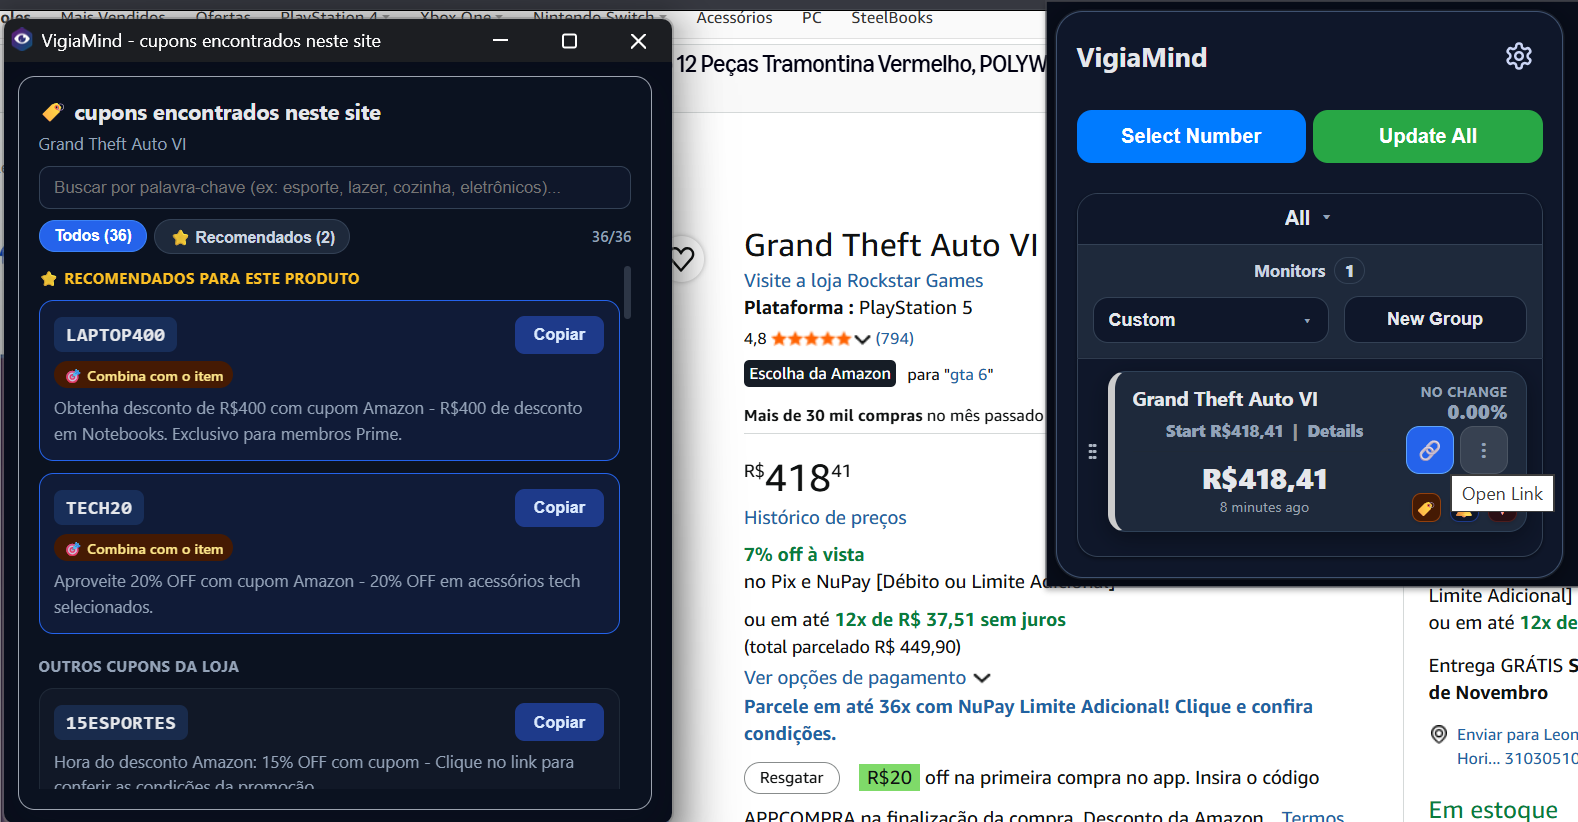
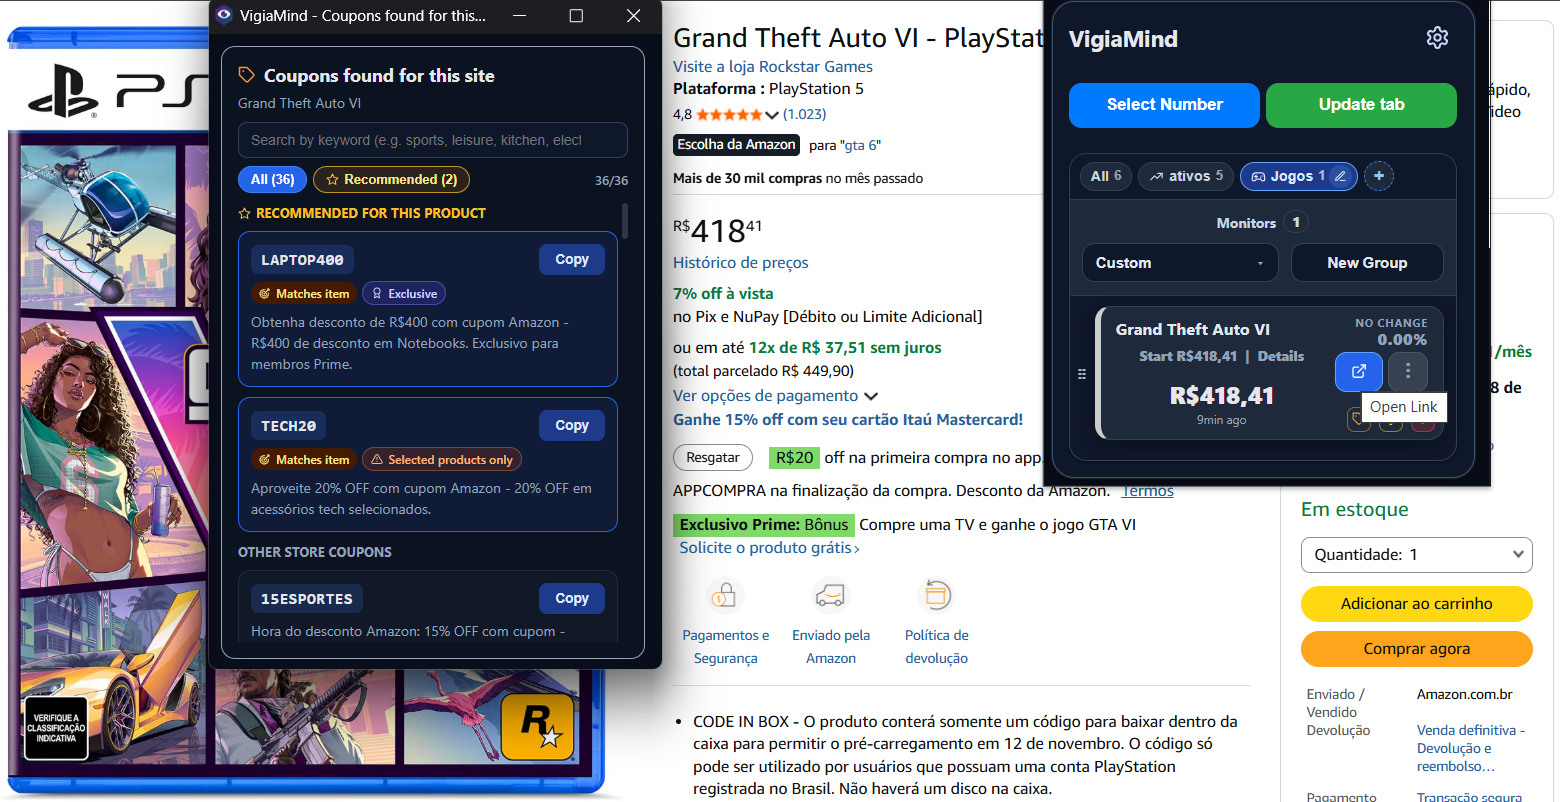
update images and include more info

diff --git a/privacidade.html b/privacidade.html
@@ -190,11 +190,10 @@
         <span>VigiaMind</span>
       </a>
       <div class="controls">
-        <a class="back-btn" href="index.html">← Início / Home</a>
+        <a class="back-btn" href="index.html">← Voltar para a extensão</a>
         <div class="lang-switch" role="group" aria-label="Idioma / Language">
-          <button type="button" class="lang-btn is-active" data-filter="all">🇧🇷 + 🇺🇸 Ambos</button>
-          <button type="button" class="lang-btn" data-filter="pt">🇧🇷 Português</button>
-          <button type="button" class="lang-btn" data-filter="en">🇺🇸 English</button>
+          <button type="button" class="lang-btn is-active" data-lang="pt">🇧🇷 Português</button>
+          <button type="button" class="lang-btn" data-lang="en">🇺🇸 English</button>
         </div>
       </div>
     </header>
@@ -212,7 +211,7 @@
 
       <h3>1. Dados armazenados localmente no seu navegador</h3>
       <p>
-        Todos os monitores que você cria (nomes, URLs das páginas monitoradas, seletores CSS, histórico de valores, metas, grupos, subgrupos e preferências de idioma e tema) são armazenados <strong>exclusivamente no armazenamento local do seu navegador</strong> (<code>chrome.storage.local</code>).
+        Todos os monitores que você cria (nomes, URLs das páginas monitoradas, seletores CSS, histórico de valores, metas, grupos, subgrupos, abas personalizadas e preferências de idioma e tema) são armazenados <strong>exclusivamente no armazenamento local do seu navegador</strong> (<code>chrome.storage.local</code>).
       </p>
       <ul>
         <li>O VigiaMind <strong>não exige</strong> criação de conta, e-mail ou senha.</li>
@@ -253,7 +252,7 @@
 
       <h3>1. Data stored locally in your browser</h3>
       <p>
-        All monitors you create (item names, monitored page URLs, CSS selectors, value history, targets, groups, subgroups, and UI preferences) are stored <strong>exclusively in your browser's local storage</strong> (<code>chrome.storage.local</code>).
+        All monitors you create (item names, monitored page URLs, CSS selectors, value history, targets, groups, subgroups, custom tabs, and UI preferences) are stored <strong>exclusively in your browser's local storage</strong> (<code>chrome.storage.local</code>).
       </p>
       <ul>
         <li>VigiaMind <strong>does not</strong> require an account, email address, or login.</li>
@@ -283,9 +282,9 @@
 
     <footer>
       <div style="margin-bottom: 12px;">
-        <a class="back-btn js-home-link" href="index.html">← Início / Home</a>
+        <a class="back-btn js-home-link" href="index.html">← Voltar para a extensão</a>
       </div>
-      <div>VigiaMind © 2026 — Privacy & Terms</div>
+      <div id="footer-copy">VigiaMind © 2026 — Política de Privacidade & Termos</div>
     </footer>
   </div>
 
@@ -294,44 +293,47 @@
       document.querySelectorAll('.back-btn').forEach((btn) => { btn.style.display = 'none'; });
     }
     const cards = Array.from(document.querySelectorAll('[data-doc-lang]'));
-    const buttons = Array.from(document.querySelectorAll('[data-filter]'));
+    const buttons = Array.from(document.querySelectorAll('[data-lang]'));
     const homeLinks = Array.from(document.querySelectorAll('.js-home-link, .back-btn, .brand'));
     const backButtons = Array.from(document.querySelectorAll('.back-btn'));
+    const footerCopy = document.getElementById('footer-copy');
 
-    function applyFilter(filter) {
+    function applyLang(lang) {
+      const safeLang = lang === 'en' ? 'en' : 'pt';
+      document.documentElement.lang = safeLang === 'en' ? 'en' : 'pt-BR';
+      document.title = safeLang === 'en'
+        ? 'VigiaMind — Privacy Policy & Terms of Use'
+        : 'VigiaMind — Política de Privacidade & Termos de Uso';
+
       cards.forEach((card) => {
-        const lang = card.getAttribute('data-doc-lang');
-        card.style.display = (filter === 'all' || filter === lang) ? '' : 'none';
+        card.style.display = card.getAttribute('data-doc-lang') === safeLang ? '' : 'none';
       });
       buttons.forEach((btn) => {
-        btn.classList.toggle('is-active', btn.getAttribute('data-filter') === filter);
+        btn.classList.toggle('is-active', btn.getAttribute('data-lang') === safeLang);
       });
-      const homeHref = filter === 'en'
-        ? 'index.html?lang=en'
-        : filter === 'pt'
-          ? 'index.html?lang=pt'
-          : 'index.html';
+
+      const homeHref = safeLang === 'en' ? 'index.html?lang=en' : 'index.html?lang=pt';
       homeLinks.forEach((link) => {
         link.href = homeHref;
       });
-      const backLabel = filter === 'en'
-        ? '← Back to VigiaMind'
-        : filter === 'pt'
-          ? '← Voltar para a extensão'
-          : '← Início / Home';
+      const backLabel = safeLang === 'en' ? '← Back to VigiaMind' : '← Voltar para a extensão';
       backButtons.forEach((btn) => {
         btn.textContent = backLabel;
       });
+      if (footerCopy) {
+        footerCopy.textContent = safeLang === 'en'
+          ? 'VigiaMind © 2026 — Privacy & Terms'
+          : 'VigiaMind © 2026 — Política de Privacidade & Termos';
+      }
     }
 
     buttons.forEach((btn) => {
-      btn.addEventListener('click', () => applyFilter(btn.getAttribute('data-filter')));
+      btn.addEventListener('click', () => applyLang(btn.getAttribute('data-lang')));
     });
 
     const urlLang = new URLSearchParams(window.location.search).get('lang');
-    if (urlLang === 'pt' || urlLang === 'en') {
-      applyFilter(urlLang);
-    }
+    const browserLang = (navigator.language || '').toLowerCase();
+    applyLang(urlLang === 'en' || (!urlLang && browserLang.startsWith('en')) ? 'en' : 'pt');
   </script>
 </body>
 </html>

diff --git a/index.html b/index.html
@@ -498,12 +498,32 @@
         </article>
         <article class="shot-card">
           <div class="shot-media">
+            <img src="image/groups_subgroups_pt.png" data-src-pt="image/groups_subgroups_pt.png" data-src-en="image/groups_subgroups_en.png" alt="Grupos, subgrupos e abas personalizadas" loading="lazy" />
+          </div>
+          <div class="shot-caption">
+            <span class="shot-step" data-i18n="s4Step">Passo 4</span>
+            <h3 data-i18n="s4Title">Organize em grupos, subgrupos e abas</h3>
+            <p data-i18n="s4Desc">Agrupe monitores relacionados, acompanhe soma, mínimo ou máximo e separe por abas.</p>
+          </div>
+        </article>
+        <article class="shot-card">
+          <div class="shot-media">
+            <img src="image/graph_pt.png" data-src-pt="image/graph_pt.png" data-src-en="image/graph_en.png" alt="Gráfico de histórico e exportação CSV" loading="lazy" />
+          </div>
+          <div class="shot-caption">
+            <span class="shot-step" data-i18n="s5Step">Passo 5</span>
+            <h3 data-i18n="s5Title">Gráficos de histórico e CSV</h3>
+            <p data-i18n="s5Desc">Analise a evolução de valores, mínima, máxima, variação e exporte tudo em CSV.</p>
+          </div>
+        </article>
+        <article class="shot-card">
+          <div class="shot-media">
             <img src="image/coupons_pt.png" data-src-pt="image/coupons_pt.png" data-src-en="image/coupons_en.png" alt="Cupons recomendados da loja" loading="lazy" />
           </div>
           <div class="shot-caption">
-            <span class="shot-step" data-i18n="s4Step">Bônus</span>
-            <h3 data-i18n="s4Title">Cupons recomendados ao abrir a loja</h3>
-            <p data-i18n="s4Desc">Ao clicar para abrir o link pela extensão, veja cupons compatíveis com 1 clique.</p>
+            <span class="shot-step" data-i18n="s6Step">Bônus</span>
+            <h3 data-i18n="s6Title">Cupons recomendados ao abrir a loja</h3>
+            <p data-i18n="s6Desc">Ao clicar para abrir o link pela extensão, veja cupons compatíveis com 1 clique.</p>
           </div>
         </article>
       </div>
@@ -617,9 +637,15 @@
         s3Step: 'Passo 3',
         s3Title: 'Acompanhe variações no popup',
         s3Desc: 'Veja variação percentual, valor inicial, grupos e badges de status num só lugar.',
-        s4Step: 'Bônus',
-        s4Title: 'Cupons recomendados ao abrir a loja',
-        s4Desc: 'Ao clicar para abrir o link pela extensão, veja cupons compatíveis com 1 clique.',
+        s4Step: 'Passo 4',
+        s4Title: 'Organize em grupos, subgrupos e abas',
+        s4Desc: 'Agrupe monitores relacionados, acompanhe soma, mínimo ou máximo e separe por abas.',
+        s5Step: 'Passo 5',
+        s5Title: 'Gráficos de histórico e CSV',
+        s5Desc: 'Analise a evolução de valores, mínima, máxima, variação e exporte tudo em CSV.',
+        s6Step: 'Bônus',
+        s6Title: 'Cupons recomendados ao abrir a loja',
+        s6Desc: 'Ao clicar para abrir o link pela extensão, veja cupons compatíveis com 1 clique.',
         trustHtml: '<strong>Privacidade e transparência:</strong> seus monitores, URLs e histórico ficam armazenados apenas localmente no navegador. A extensão é gratuita e pode usar links de afiliado apenas quando você clica no botão de abrir loja dentro da extensão, sem custo adicional.',
         privacyLink: 'Política de Privacidade & Termos de Uso'
       },
@@ -652,9 +678,15 @@
         s3Step: 'Step 3',
         s3Title: 'Track changes inside the popup',
         s3Desc: 'Check percent changes, initial value, groups, and status badges at a glance.',
-        s4Step: 'Bonus',
-        s4Title: 'Store coupons when opening links',
-        s4Desc: 'View matching store coupons and copy promo codes in 1 click from the extension.',
+        s4Step: 'Step 4',
+        s4Title: 'Organize in groups, subgroups & tabs',
+        s4Desc: 'Group related monitors, track auto sum/min/max totals, and split workspaces into tabs.',
+        s5Step: 'Step 5',
+        s5Title: 'Interactive charts & CSV export',
+        s5Desc: 'Inspect value trends, min/max stats, percent changes, and export history to CSV.',
+        s6Step: 'Bonus',
+        s6Title: 'Store coupons when opening links',
+        s6Desc: 'View matching store coupons and copy promo codes in 1 click from the extension.',
         trustHtml: '<strong>Privacy & transparency:</strong> your monitors, URLs, and history stay locally in your browser. VigiaMind is free and may use affiliate links only when you actively click to open a partner store from the extension, at no extra cost.',
         privacyLink: 'Privacy Policy & Terms of Use'
       }
